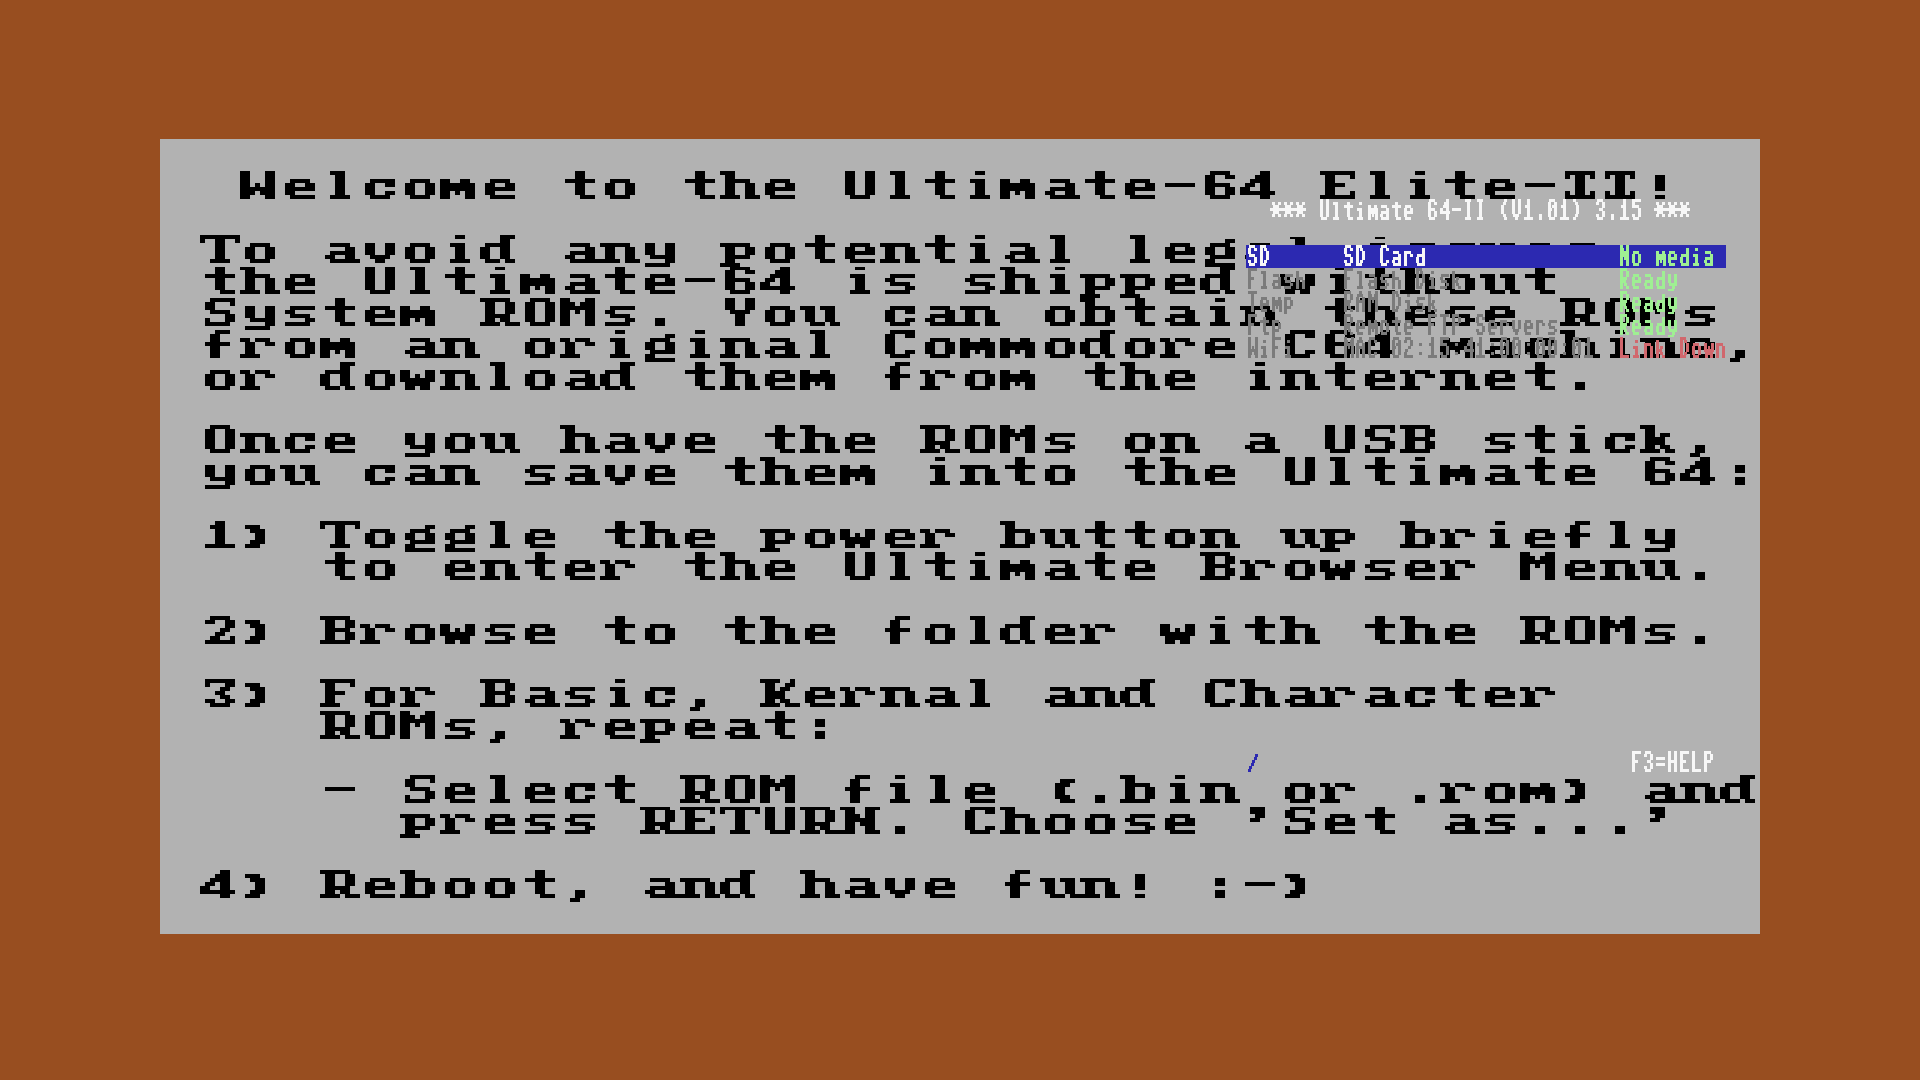
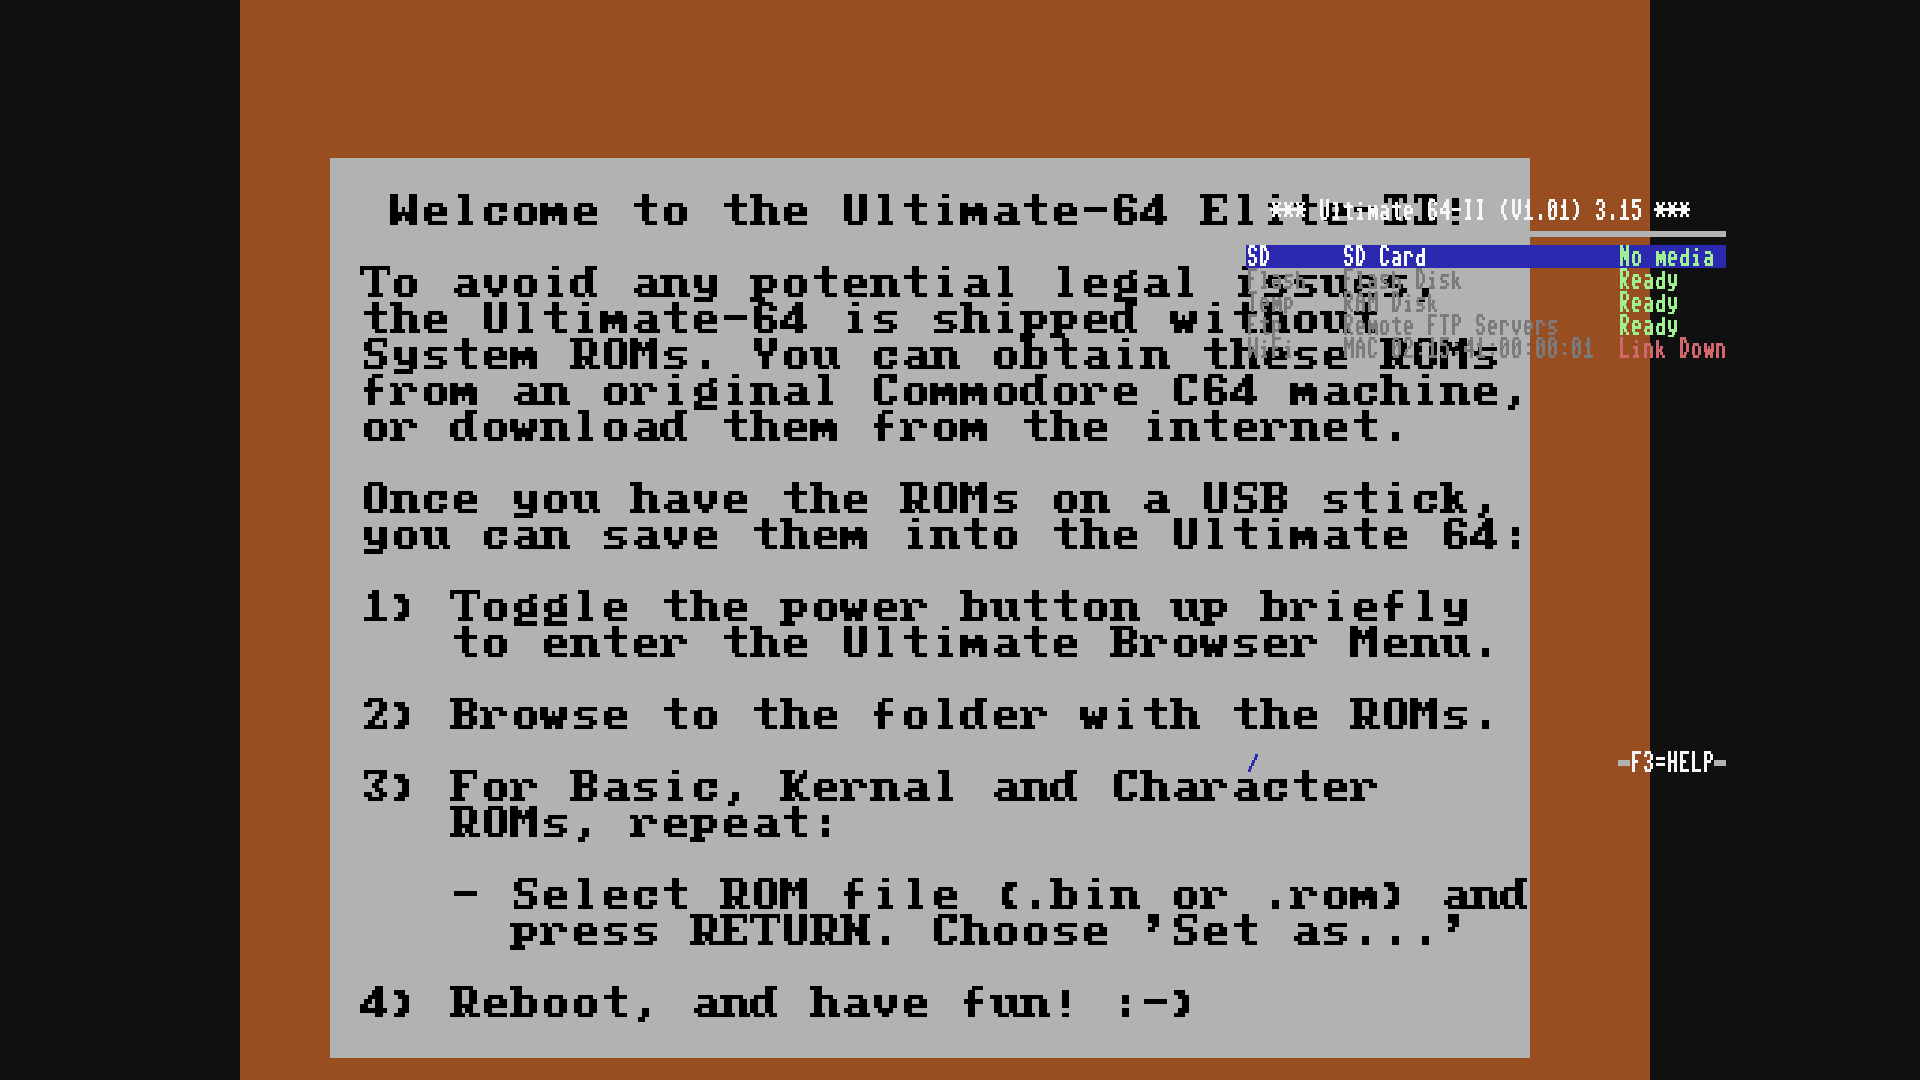
render: the C64 picture is cropped, scaled and placed, not stretched (issue #3)

diff --git a/crates/ue2-core/src/render.rs b/crates/ue2-core/src/render.rs
@@ -3,8 +3,9 @@
 //! Pixel semantics follow the open chargen IP as summarised in docs/hw/05-ui-overlay-input.md §B
 //! (char_generator_regs.vhd, char_generator_slave12.vhd).
 //!
-//! The image is the output mode the firmware programmed into the HDMI timing registers: the C64 frame scaled into
-//! the active area, and the text grid on top where the chargen registers put it — X_ON/Y_ON for the corner,
+//! The image is the output mode the firmware programmed into the HDMI timing registers: the C64 picture cropped,
+//! scaled and placed where the cropper and the two scalers put it, and the text grid on top where the chargen
+//! registers put it — X_ON/Y_ON for the corner,
 //! CHARS_PER_LINE and ACTIVE_LINES for the size (05 OQ 4, answered). Nothing here is centred and no size is
 //! assumed: `DetermineOverlaySettings` (u64_config.cc) writes a different box per screen and per video mode, so a
 //! full-height panel flush to the right edge and a small floating submenu window are the same code path with
@@ -40,6 +41,84 @@ struct Output {
     /// Counter value where the active area starts.
     x0: usize,
     y0: usize,
+}
+
+/// The horizontal scaler's ratio per `hscaler` code, and the vertical one per `vscaler` code, as numerator and
+/// denominator (hdmi_scan.cc:118-155, the tables in the comment above `SetVideoMode1080p`).
+///
+/// The firmware's table lists output widths for a 384-pixel and a 400-pixel crop, and heights for 240 and 270 —
+/// every pair is one ratio, so a crop of any other size scales by the same factor. The four entries whose 384/240
+/// column is rounded (533, 686, 1067, 1371) are taken from the 400/270 column, where the fraction comes out
+/// exact: 20/9, 20/7, 40/9, 40/7.
+const HSCALE: [(u8, u32, u32); 10] = [
+    (0x00, 1, 1),
+    (0x01, 5, 4),
+    (0x02, 4, 3),
+    (0x03, 5, 3),
+    (0x04, 15, 8),
+    (0x08, 2, 1),
+    (0x09, 5, 2),
+    (0x0A, 8, 3),
+    (0x0B, 10, 3),
+    (0x0C, 15, 4),
+];
+const VSCALE: [(u8, u32, u32); 18] = [
+    (0x00, 2, 1),
+    (0x10, 20, 9),
+    (0x11, 9, 4),
+    (0x12, 5, 2),
+    (0x13, 8, 3),
+    (0x14, 20, 7),
+    (0x15, 3, 1),
+    (0x16, 16, 5),
+    (0x17, 18, 5),
+    (0x08, 4, 1),
+    (0x18, 40, 9),
+    (0x19, 9, 2),
+    (0x1A, 5, 1),
+    (0x1B, 16, 3),
+    (0x1C, 40, 7),
+    (0x1D, 6, 1),
+    (0x1E, 32, 5),
+    (0x1F, 36, 5),
+];
+
+/// Where the C64 picture lands in the output, and which part of the VIC frame goes there.
+///
+/// The device does not stretch the picture over the whole screen: `SetVicCrop` takes a window out of the VIC
+/// frame, the two scalers blow it up by a fixed ratio each, and `x_offset` places the result
+/// (hdmi_scan.cc:111-163). At 1080p PAL that is a 384x270 crop at (8, 9), scaled 15/4 by 4/1 to 1440x1080 and put
+/// at x 240 — pillarboxed in the 1920-wide active area, not stretched across it.
+#[derive(Debug, PartialEq, Eq)]
+struct Picture {
+    /// Source rectangle in the VIC frame.
+    crop: (usize, usize, usize, usize),
+    /// Destination in the active area: left edge, then the size after both scalers.
+    x: usize,
+    width: usize,
+    height: usize,
+}
+
+impl Picture {
+    /// `None` when the scaler codes are ones this firmware never writes, which is also the unprogrammed state.
+    fn new(hdmi: &[u8; 0x1E], cropper: &[u8; 4]) -> Option<Picture> {
+        let ratio = |table: &[(u8, u32, u32)], code: u8| {
+            table.iter().find(|(c, _, _)| *c == code).map(|&(_, n, d)| (n, d))
+        };
+        let (hn, hd) = ratio(&HSCALE, hdmi[19])?;
+        let (vn, vd) = ratio(&VSCALE, hdmi[20])?;
+        // `SetVicCrop` stores the size halved (hdmi_scan.cc:58-59).
+        let (cw, ch) = (usize::from(cropper[2]) * 2, usize::from(cropper[3]) * 2);
+        if cw == 0 || ch == 0 {
+            return None;
+        }
+        Some(Picture {
+            crop: (usize::from(cropper[0]), usize::from(cropper[1]), cw, ch),
+            x: usize::from(hdmi[16]),
+            width: cw * hn as usize / hd as usize,
+            height: ch * vn as usize / vd as usize,
+        })
+    }
 }
 
 impl Output {
@@ -139,6 +218,7 @@ impl Renderer {
         let (w, h) = (geo.cols * geo.char_width, geo.rows * lines.len());
         let (gw, gh) = if w == 0 || h == 0 { DEFAULT_SIZE } else { (w, h) };
         let output = Output::new(&snap.hdmi);
+        let picture = Picture::new(&snap.hdmi, &snap.cropper);
         let (cw, ch) = match &output {
             Some(o) => (o.width, o.height),
             None => snap.c64.as_ref().map_or((gw, gh), |f| (f.width.max(gw), f.height.max(gh))),
@@ -147,7 +227,7 @@ impl Renderer {
         out.resize(cw * ch, BACKDROP);
         if let Some(frame) = &snap.c64 {
             match &output {
-                Some(_) => draw_c64_scaled(frame, out, cw, ch),
+                Some(_) => draw_c64_scaled(frame, picture.as_ref(), out, (cw, ch)),
                 None => draw_c64(frame, out, cw, ch),
             }
         }
@@ -225,18 +305,37 @@ impl Renderer {
     }
 }
 
-/// Palettize `frame` stretched over the whole canvas, as the device's scaler puts the VIC picture on the output
-/// (nearest neighbour; the hardware filters).
-fn draw_c64_scaled(frame: &C64Frame, out: &mut [u32], canvas_w: usize, canvas_h: usize) {
+/// Palettize the cropped VIC picture into the rectangle the cropper and the two scalers put it in (nearest
+/// neighbour; the hardware filters). Everything outside it keeps the backdrop, which is what the device sends
+/// where the picture is not.
+///
+/// Without a `Picture` — the scaler registers unprogrammed, which is every machine before the firmware sets a
+/// video mode — the frame goes over the whole canvas, as it did before there was anything to read.
+fn draw_c64_scaled(frame: &C64Frame, picture: Option<&Picture>, out: &mut [u32], canvas: (usize, usize)) {
+    let (canvas_w, canvas_h) = canvas;
     if frame.width == 0 || frame.height == 0 {
         return;
     }
-    for y in 0..canvas_h {
-        let src = (y * frame.height / canvas_h) * frame.width;
-        let dst = &mut out[y * canvas_w..][..canvas_w];
-        for (x, px) in dst.iter_mut().enumerate() {
-            let idx = frame.indices[src + x * frame.width / canvas_w];
-            *px = frame.palette[usize::from(idx & 0x0F)];
+    let (src_x, src_y, src_w, src_h, dst_x, dst_w, dst_h) = match picture {
+        Some(p) => (p.crop.0, p.crop.1, p.crop.2, p.crop.3, p.x, p.width, p.height),
+        None => (0, 0, frame.width, frame.height, 0, canvas_w, canvas_h),
+    };
+    if src_w == 0 || src_h == 0 || dst_w == 0 || dst_h == 0 {
+        return;
+    }
+    for y in 0..dst_h.min(canvas_h) {
+        let row = src_y + y * src_h / dst_h;
+        if row >= frame.height {
+            break;
+        }
+        let src = row * frame.width;
+        for x in 0..dst_w {
+            let (px_x, col) = (dst_x + x, src_x + x * src_w / dst_w);
+            if px_x >= canvas_w || col >= frame.width {
+                continue;
+            }
+            let idx = frame.indices[src + col];
+            out[y * canvas_w + px_x] = frame.palette[usize::from(idx & 0x0F)];
         }
     }
 }
@@ -366,7 +465,7 @@ mod tests {
         for (i, rgb) in PAL.iter().enumerate() {
             palette[i * 4..i * 4 + 3].copy_from_slice(&rgb.to_be_bytes()[1..]);
         }
-        DisplaySnapshot { regs, screen: vec![0x20; 4096], color: vec![0; 4096], palette, hdmi: [0; 0x1E], now_ms: 0, c64: None }
+        DisplaySnapshot { regs, screen: vec![0x20; 4096], color: vec![0; 4096], palette, hdmi: [0; 0x1E], cropper: [0; 4], now_ms: 0, c64: None }
     }
 
     /// A `w` × `h` C64 frame of colour index 3 = `C64_BLUE`.
@@ -461,6 +560,36 @@ mod tests {
         frame.screen[..11].copy_from_slice(b"SD Card\x02\x06\x7F~");
         frame.charset = C64Charset::Ram;
         assert_eq!(c64_text_dump(&s).lines().next(), Some("SD Card-+#~"), "Freeze UI font");
+    }
+
+    /// S07/issue #3: the C64 picture is cropped, scaled by the two scaler ratios and placed by `x_offset` — the
+    /// device does not stretch it across the screen. 1080p PAL is the case the firmware's own numbers cover.
+    #[test]
+    fn the_picture_is_cropped_scaled_and_placed_like_the_device() {
+        let mut hdmi = [0u8; 0x1E];
+        // hdmi_scan.cc:145-151, e_1920x1080 PAL: SetVicCrop(8, 9, 384, 270), hscaler 0x0C, vscaler 0x08,
+        // x_offset 240.
+        hdmi[16] = 240;
+        hdmi[19] = 0x0C;
+        hdmi[20] = 0x08;
+        // The firmware writes the size halved, so these are the bytes the register holds.
+        let cropper: [u8; 4] = [8, 9, 192, 135];
+        let picture = Picture::new(&hdmi, &cropper).expect("the firmware programmed both scalers");
+        assert_eq!(picture.crop, (8, 9, 384, 270), "the size registers hold half the size");
+        assert_eq!((picture.x, picture.width, picture.height), (240, 1440, 1080));
+        assert_eq!(picture.x + picture.width + 240, 1920, "pillarboxed, not stretched across the active area");
+
+        // 720p60: SetVicCrop(8, 0, 384, 240), hscaler 0x09, vscaler 0x15 (SetVideoModeTester, hdmi_scan.cc:106).
+        hdmi[19] = 0x09;
+        hdmi[20] = 0x15;
+        let picture = Picture::new(&hdmi, &[8, 0, 192, 120]).expect("a picture");
+        assert_eq!((picture.width, picture.height), (960, 720), "5/2 by 3/1");
+
+        // A code this firmware never writes leaves the picture unplaced, and so does an empty crop.
+        hdmi[19] = 0x7F;
+        assert_eq!(Picture::new(&hdmi, &cropper), None);
+        hdmi[19] = 0x0C;
+        assert_eq!(Picture::new(&hdmi, &[8, 9, 0, 0]), None);
     }
 
     /// Font with glyph 0x41 = rows 80 01 FF 00 00 00 00 18, all other glyphs blank.

diff --git a/crates/ue2-core/src/host.rs b/crates/ue2-core/src/host.rs
@@ -35,6 +35,9 @@ pub struct DisplaySnapshot {
     /// HDMI timing registers 0x10144000 (`t_video_timing_regs`, u64.h:172-203): the output mode the firmware
     /// programmed, which is what the overlay's X_ON/Y_ON count in.
     pub hdmi: [u8; 0x1E],
+    /// VIC cropper 0x10148000 (`t_vic_crop_regs`, hdmi_scan.cc:45-60): which part of the VIC picture goes to the
+    /// scaler, `offset_x`, `offset_y`, `size_x >> 1`, `size_y >> 1`.
+    pub cropper: [u8; 4],
     /// Emulated time of the snapshot.
     pub now_ms: u64,
     /// C64 frame under the overlay; None without an attached C64 (docs/specs/S14-c64-trx64.md §9).

diff --git a/crates/ue2-core/src/machine.rs b/crates/ue2-core/src/machine.rs
@@ -663,6 +663,7 @@ impl Machine {
                 color: vec![0; 4096],
                 palette: vec![0; 64],
                 hdmi: [0; 0x1E],
+                cropper: [0; 4],
                 now_ms,
                 c64: None,
             },

diff --git a/crates/ue2-core/src/devices/overlay.rs b/crates/ue2-core/src/devices/overlay.rs
@@ -92,6 +92,7 @@ impl Overlay {
             color: self.color.clone(),
             palette: self.palette.clone(),
             hdmi: self.hdmi,
+            cropper: self.cropper,
             now_ms,
             c64: None,
         }

diff --git a/docs/specs/S07-overlay-u64io-render.md b/docs/specs/S07-overlay-u64io-render.md
@@ -70,3 +70,24 @@ menu in graphics symbols.
 ## Acceptance
 
 `cargo test -p ue2-core overlay u64io render` passes.
+
+## The C64 picture is cropped, scaled and placed — not stretched
+
+The device does not put the VIC picture across the whole screen. `SetVicCrop` takes a window out of the frame, two
+fixed-ratio scalers blow it up, and `x_offset` places the result (hdmi_scan.cc:45-163):
+
+| 1080p | value |
+|---|---|
+| `SetVicCrop(8, 9, 384, 270)` | crop at (8, 9), 384x270 — the registers hold the size halved |
+| `hscaler = 0x0C` | 15/4, so 384 becomes 1440 |
+| `vscaler = 0x08` | 4/1, so 270 becomes 1080 |
+| `x_offset = 240` | 240 + 1440 + 240 = 1920: pillarboxed in the active area |
+
+The scaler codes are ratios, not sizes: the firmware's own table gives each code's output for a 384-pixel and a
+400-pixel crop, and for 240 and 270 lines, and every pair is the same factor. Four vertical entries are rounded in
+the 240 column (533, 686, 1067, 1371) and exact in the 270 one, which is where 20/9, 20/7, 40/9 and 40/7 come
+from.
+
+Until this was read out of the firmware the renderer stretched the frame over the whole canvas, which at 1080p made
+the picture 1920 wide instead of 1440 — a third too wide, and the reason a capture put beside a photo of real
+hardware did not line up.
